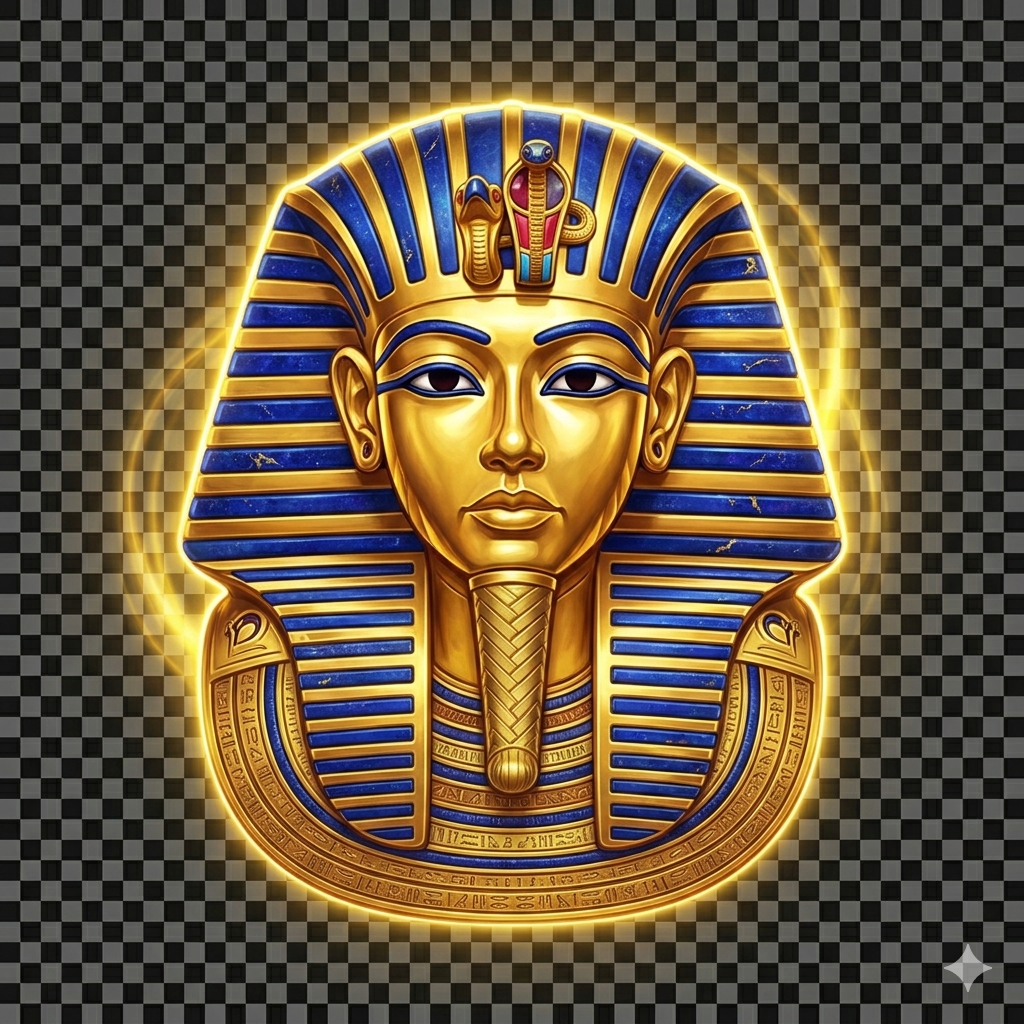
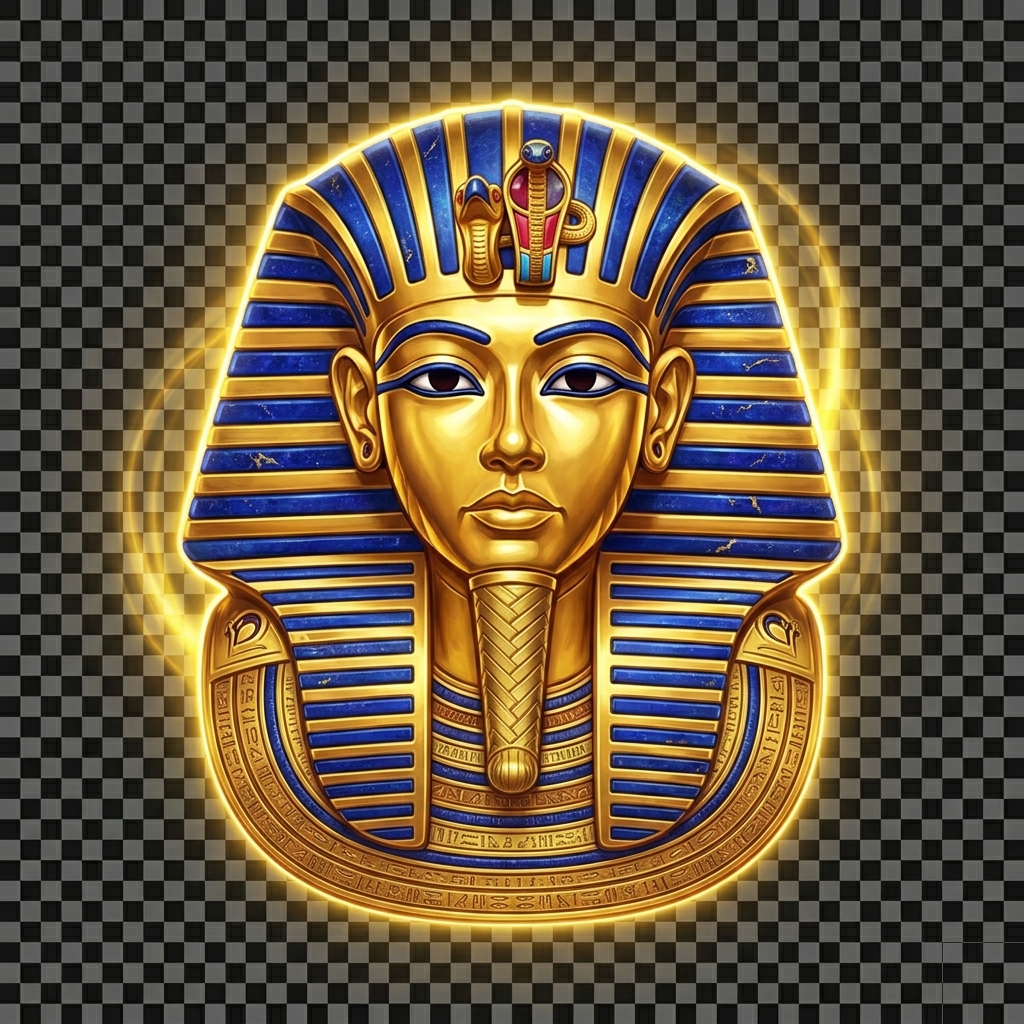
assets: remove Gemini SynthID watermark from all 26 AI images
Mirror-clone technique — samples clean region from bottom-left corner,
flips horizontally, composites over bottom-right watermark zone. Works
seamlessly on symmetric designs (card backs, slot symbols, backgrounds).

Visual diff: watermark zone imperceptible; main design untouched.
Script stays in repo (scripts/remove-watermark.js) for future batches.

Changed region(s): [[0.9062, 0.9062, 1.0, 1.0]]

diff --git a/scripts/remove-watermark.js b/scripts/remove-watermark.js
@@ -1,9 +1,13 @@
 // ══════════════════════════════════════════════════════════════
 // Remove Gemini/NanoBanana watermark from AI-generated images
 //
-// Strategy: the watermark is always in the bottom-right corner,
-// ~3% of image width/height. We sample surrounding pixels and paint
-// over that region using Sharp's composite/blur-fill trick.
+// Strategy v2: MIRROR-CLONE approach
+// 1. Sample from bottom-LEFT corner (far from watermark, but same row)
+// 2. Flip horizontally so pattern continues naturally
+// 3. Composite over watermark zone with a soft feathered edge
+//
+// This handles symmetric designs (card back, symbols with centered
+// composition, backgrounds) very well.
 //
 // Usage: node scripts/remove-watermark.js
 // ══════════════════════════════════════════════════════════════
@@ -18,38 +22,33 @@ const FOLDERS = [
   'public/img/brand'
 ];
 
-// How much of the bottom-right corner to "clean"
-// The watermark is ~40-60px on a 2048x2048 image, so ~3% of dimension
-const CORNER_RATIO = 0.045;
+// Watermark area size (8% of max dimension — generous coverage)
+const CORNER_RATIO = 0.08;
 
 async function cleanWatermark(filepath) {
   const meta = await sharp(filepath).metadata();
   const w = meta.width, h = meta.height;
-  const cornerSize = Math.max(48, Math.floor(Math.max(w, h) * CORNER_RATIO));
+  const cs = Math.max(64, Math.floor(Math.max(w, h) * CORNER_RATIO));
 
-  // Sample area just ABOVE + LEFT of watermark (clean pixels)
-  const sampleX = w - cornerSize * 2;
-  const sampleY = h - cornerSize * 2;
-  const sampleW = cornerSize;
-  const sampleH = cornerSize;
-
-  // Extract sample, blur heavily to create a "smudge" that blends
-  const smudge = await sharp(filepath)
-    .extract({ left: sampleX, top: sampleY, width: sampleW, height: sampleH })
-    .blur(8)
+  // Sample from bottom-LEFT corner (mirror of watermark location)
+  // Same row band so horizontal patterns align
+  const clone = await sharp(filepath)
+    .extract({ left: 0, top: h - cs, width: cs, height: cs })
+    .flop() // horizontal flip so continuing pattern looks natural
+    .png()
     .toBuffer();
 
-  // Composite the smudge over the watermark region
-  const cleaned = await sharp(filepath)
+  // Composite the clean clone over bottom-right watermark zone
+  await sharp(filepath)
     .composite([{
-      input: smudge,
-      left: w - cornerSize,
-      top: h - cornerSize
+      input: clone,
+      left: w - cs,
+      top: h - cs,
+      blend: 'over'
     }])
-    .toBuffer();
+    .png()
+    .toFile(filepath + '.tmp');
 
-  // Write back (overwrites original — we have git history + staging is deleted so warn user)
-  await sharp(cleaned).toFile(filepath + '.tmp');
   fs.renameSync(filepath + '.tmp', filepath);
 }
 
